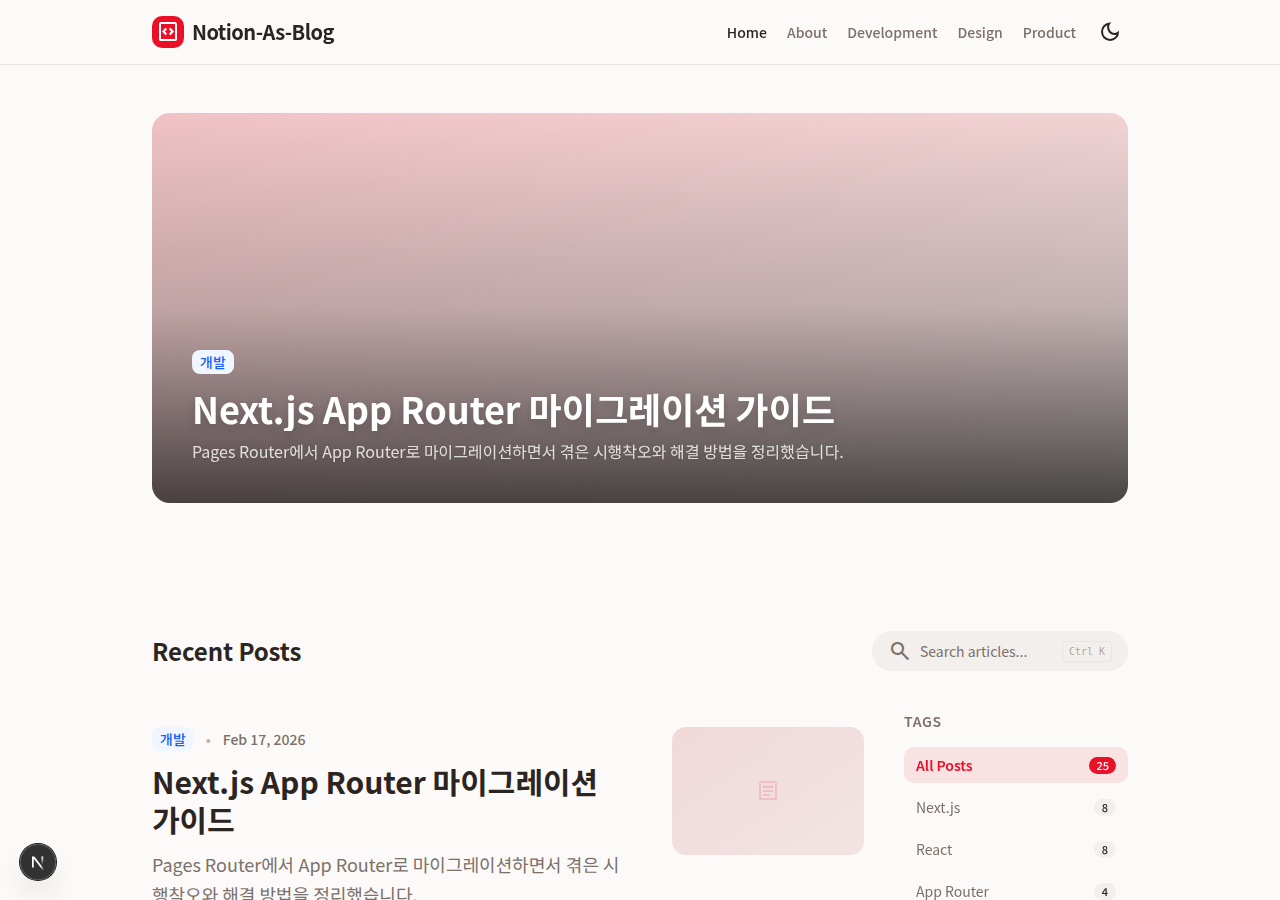
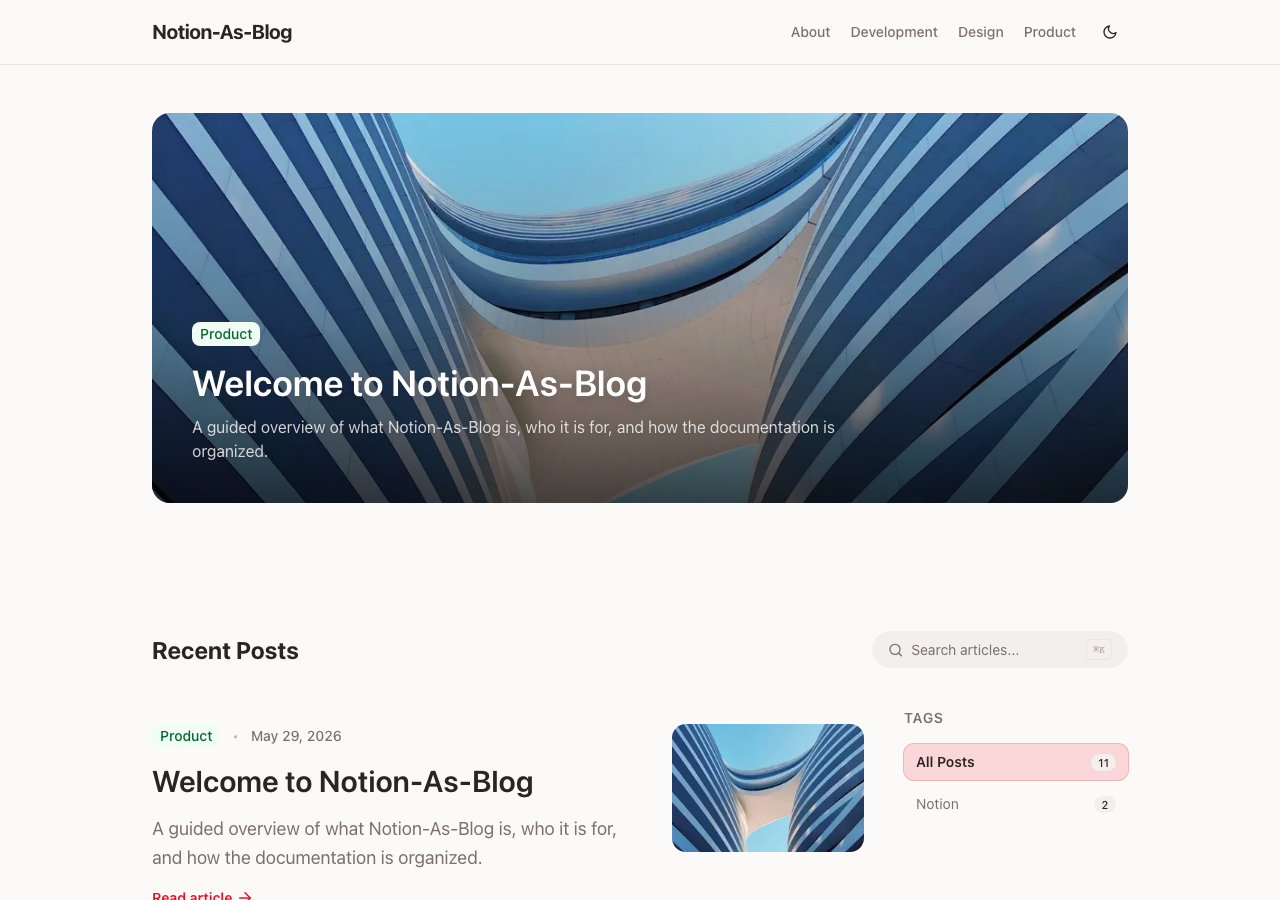
docs: refresh README and screenshots for template workflow

diff --git a/README.ko.md b/README.ko.md
@@ -1,7 +1,10 @@
 # Notion-As-Blog
 
 **Notion**을 CMS로 사용하는 모던 오픈소스 블로그 템플릿입니다. **Next.js 16** 기반.
-Notion에서 글을 쓰면 블로그에 자동으로 반영됩니다.
+공개 Notion 템플릿을 복제하고 Integration을 연결하면, 본인 워크스페이스의 Notion DB를 빠르고 SEO 친화적인 블로그로 배포할 수 있습니다.
+
+- **공식 문서:** [notion-as-blog.vercel.app](https://notion-as-blog.vercel.app)
+- **Notion 템플릿:** [Notion-As-Blog 템플릿 복제](https://welcometogyuminworld.notion.site/Notion-As-Blog-30ab152141a480309a9ede1f8cac4cc7?source=copy_link)
 
 ![Next.js](https://img.shields.io/badge/Next.js-16-black?logo=next.js)
 ![TypeScript](https://img.shields.io/badge/TypeScript-5-blue?logo=typescript)
@@ -14,17 +17,19 @@ Notion에서 글을 쓰면 블로그에 자동으로 반영됩니다.
 
 ## 스크린샷
 
-### 홈 (라이트 / 다크)
+아래 이미지는 배포된 공식 문서 사이트 기준으로 새로 촬영한 스크린샷입니다.
+
+### 문서 홈 (라이트 / 다크)
 
 | 라이트 | 다크 |
 |:---:|:---:|
 | ![홈 라이트](docs/screenshots/home-desktop.png) | ![홈 다크](docs/screenshots/home-dark.png) |
 
-### 포스트 상세
+### 문서 상세
 
 ![포스트 상세](docs/screenshots/post-desktop.png)
 
-### 모바일
+### 모바일 문서 홈
 
 <p align="center">
   <img src="docs/screenshots/home-mobile.png" alt="모바일" width="300" />
@@ -56,11 +61,11 @@ Notion에서 글을 쓰면 블로그에 자동으로 반영됩니다.
 
 ### 1. Notion 템플릿 복제
 
-아래 링크를 열고 템플릿을 본인의 Notion 워크스페이스에 복제하세요.
+아래 공개 Notion 페이지를 열고 **Duplicate**를 눌러 전체 템플릿을 본인의 Notion 워크스페이스로 복제하세요.
 
-> **[Notion-As-Blog 템플릿](https://www.notion.so/welcometogyuminworld/Notion-As-Blog-30ab152141a480309a9ede1f8cac4cc7?source=copy_link)**
+> **[Notion-As-Blog 템플릿 복제](https://welcometogyuminworld.notion.site/Notion-As-Blog-30ab152141a480309a9ede1f8cac4cc7?source=copy_link)**
 
-템플릿에는 샘플 데이터가 포함된 **Posts** 데이터베이스와 **Authors** 데이터베이스가 있어 바로 글쓰기를 시작할 수 있습니다.
+템플릿에는 **Posts** data source, 선택 사항인 **Authors** data source, 문서형 샘플 콘텐츠가 포함되어 있습니다. 복제 후에는 모든 DB row가 본인 워크스페이스에 속하므로 자유롭게 수정하거나 삭제할 수 있습니다.
 
 ### 2. Notion Integration 생성
 

diff --git a/README.md b/README.md
@@ -1,7 +1,10 @@
 # Notion-As-Blog
 
 A modern, open-source blog template powered by **Notion** as a CMS and **Next.js 16**.
-Write posts in Notion, and they appear on your blog automatically.
+Duplicate the public Notion template, connect your integration, and publish a fast, SEO-friendly blog from your own workspace.
+
+- **Official docs:** [notion-as-blog.vercel.app](https://notion-as-blog.vercel.app)
+- **Notion template:** [Duplicate the Notion-As-Blog Template](https://welcometogyuminworld.notion.site/Notion-As-Blog-30ab152141a480309a9ede1f8cac4cc7?source=copy_link)
 
 ![Next.js](https://img.shields.io/badge/Next.js-16-black?logo=next.js)
 ![TypeScript](https://img.shields.io/badge/TypeScript-5-blue?logo=typescript)
@@ -14,17 +17,19 @@ Write posts in Notion, and they appear on your blog automatically.
 
 ## Screenshots
 
-### Home (Light / Dark)
+Fresh screenshots are captured from the deployed documentation site.
+
+### Documentation home (Light / Dark)
 
 | Light | Dark |
 |:---:|:---:|
 | ![Home Light](docs/screenshots/home-desktop.png) | ![Home Dark](docs/screenshots/home-dark.png) |
 
-### Post Detail
+### Documentation article
 
 ![Post Detail](docs/screenshots/post-desktop.png)
 
-### Mobile
+### Mobile documentation home
 
 <p align="center">
   <img src="docs/screenshots/home-mobile.png" alt="Mobile" width="300" />
@@ -56,11 +61,11 @@ Write posts in Notion, and they appear on your blog automatically.
 
 ### 1. Copy the Notion template
 
-Open the link below and duplicate the template to your Notion workspace.
+Open the public Notion page below and click **Duplicate** to copy the full template into your Notion workspace.
 
 > **[Duplicate the Notion-As-Blog Template](https://welcometogyuminworld.notion.site/Notion-As-Blog-30ab152141a480309a9ede1f8cac4cc7?source=copy_link)**
 
-The template includes a **Posts** data source and an **Authors** data source with sample content, so you can start writing immediately. Make sure the public Notion page has **Duplicate as template** enabled, then duplicate it into your own workspace.
+The template includes a **Posts** data source, an optional **Authors** data source, and documentation-style sample content. After duplicating, all database rows belong to your workspace, so you can safely edit or delete them.
 
 ### 2. Create a Notion integration
 
